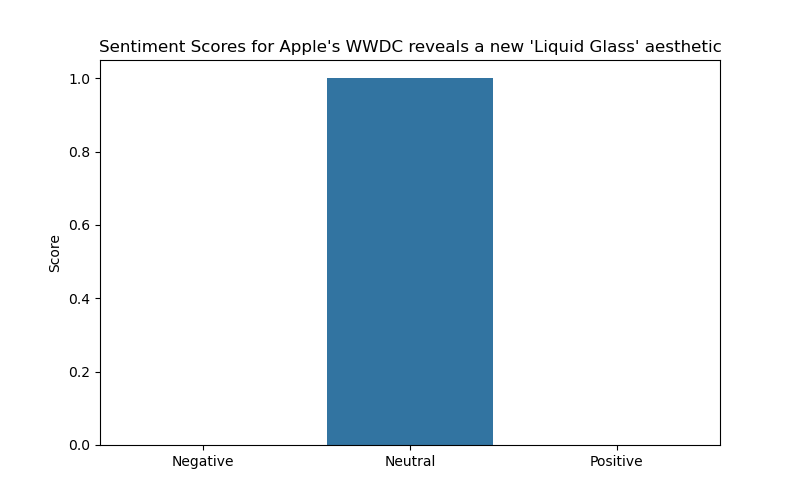
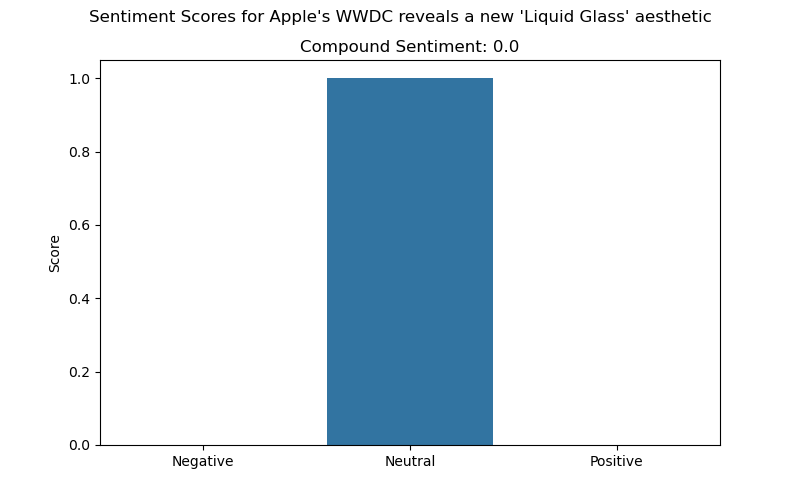
added compound sentiment to output plots

Changed region(s): [[0.0938, 0.0, 0.9062, 0.12]]

diff --git a/main.py b/main.py
@@ -25,7 +25,8 @@ for headline in headlines:
 for sentiment in sentiments:
   plt.figure(figsize=(8, 5))
   sns.barplot(x=['Negative', 'Neutral', 'Positive'], y=[sentiment['Negative'], sentiment['Neutral'], sentiment['Positive']])
-  plt.title(f'Sentiment Scores for {sentiment['Headline']}')
+  plt.suptitle(f'Sentiment Scores for {sentiment['Headline']}')
+  plt.title(f"Compound Sentiment: {sentiment['Compound']}")
   plt.ylabel('Score')
   plt.savefig(f'output/sentiment_{sentiment['Headline'].replace(" ", "_")}.png')
-  plt.show()
+  plt.close()
